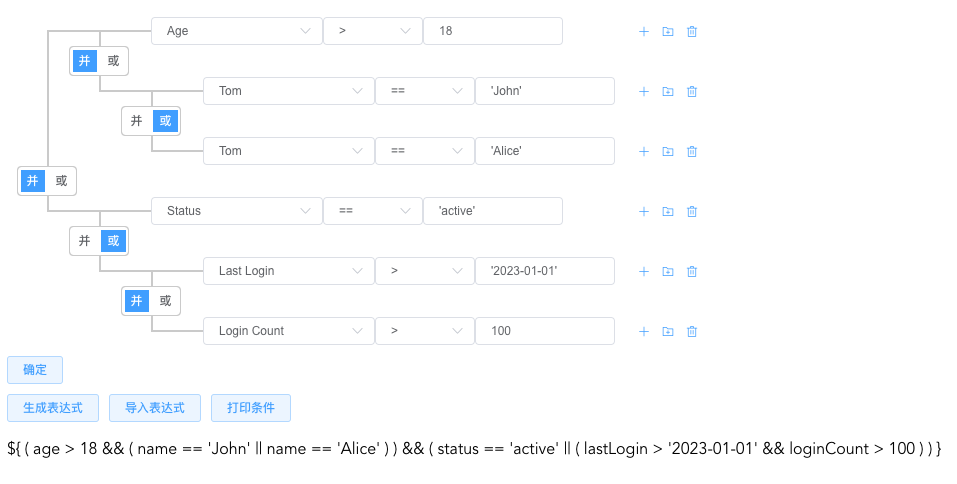
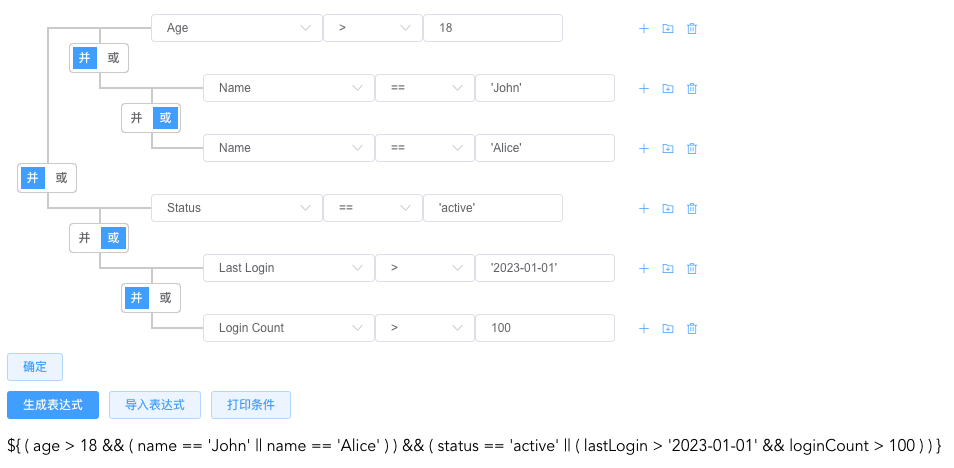
feat: update demo

diff --git a/src/App.vue b/src/App.vue
@@ -24,7 +24,7 @@ export default {
       // expression: '${ (age > 18 && (name == "John" || name == "Alice")) && (status == "active" || (lastLogin > "2023-01-01" && loginCount > 100)) }',
       // expression: '${ (status == "active" && (age >= 18 && (score > 60 || grade == "A"))) || (status == "inactive" && (lastLogin > "2023-01-01" || loginCount > 100)) && department in ["IT", "HR"] }',
       // expression: "${ (age > 18 && (name == 'John' || name == 'Alice')) && (status == 'active' || (lastLogin > '2023-01-01' && loginCount > 100)) }",
-      expression: "${ serviceTask_ae421a8c05224273a51454d7ddcb121e_abilityId_8cc652606dd44143b3d35808df7f3bc6.resultData.TotalNum == null || serviceTask_ae421a8c05224273a51454d7ddcb121e_abilityId_8cc652606dd44143b3d35808df7f3bc6.resultData.TotalNum == '' }",
+      /*expression: "${ serviceTask_ae421a8c05224273a51454d7ddcb121e_abilityId_8cc652606dd44143b3d35808df7f3bc6.resultData.TotalNum == null || serviceTask_ae421a8c05224273a51454d7ddcb121e_abilityId_8cc652606dd44143b3d35808df7f3bc6.resultData.TotalNum == '' }",
       treeOptions: [
         {
           "id": "bodyIn",
@@ -89,6 +89,25 @@ export default {
               }
             ]
         }
+      ]*/
+      expression: "${ (age > 18 && (name == 'John' || name == 'Alice')) && (status == 'active' || (lastLogin > '2023-01-01' && loginCount > 100)) }",
+      treeOptions: [
+        {
+          id: 'name',
+          label: 'Name',
+          children: [
+            {id: 'age', label: 'Age'},
+            {id: 'status', label: 'Status'},
+          ],
+        },
+        {
+          id: 'login',
+          label: 'Login',
+          children: [
+            {id: 'lastLogin', label: 'Last Login'},
+            {id: 'loginCount', label: 'Login Count'},
+          ],
+        },
       ]
     }
   },
